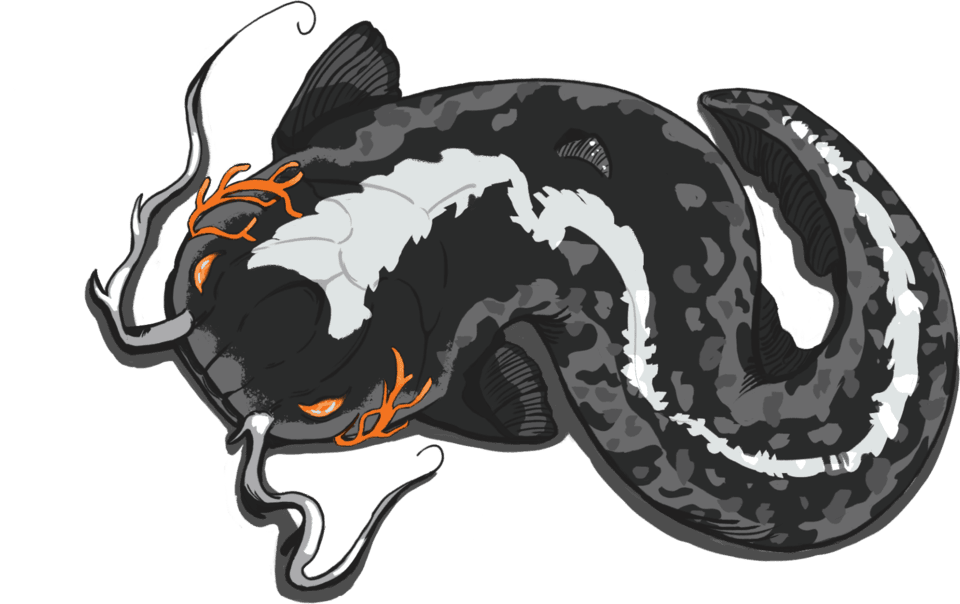
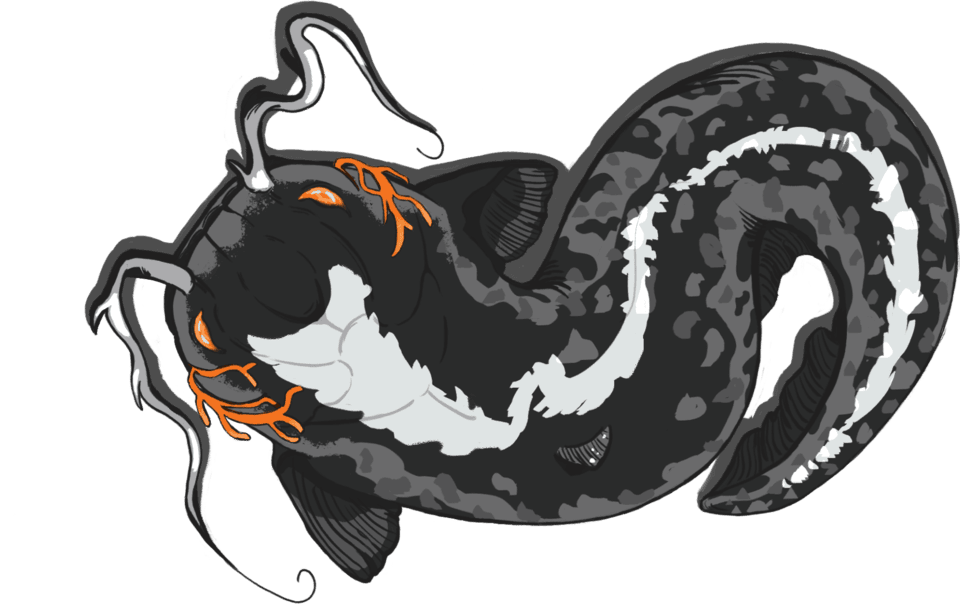
changed vektors for fish2

diff --git a/src/scenes/shop.js b/src/scenes/shop.js
@@ -637,8 +637,8 @@ export default class Shop extends Phaser.Scene {
 
     // BOX 2: gebogener Fisch
     if (this.currentBoxId === "box2") {
-      const startX = bounds.left + bounds.width * 0.17;
-      const startY = bounds.top + bounds.height * 0.37;
+      const startX = bounds.left + bounds.width * 0.20;
+      const startY = bounds.top + bounds.height * 0.42;
 
       this.fishPath = new Phaser.Curves.Path(startX, startY);
       //Kontrollpunkte x,y
@@ -647,10 +647,9 @@ export default class Shop extends Phaser.Scene {
         new Phaser.Math.Vector2(bounds.left + bounds.width * 0.36, bounds.top + bounds.height * 0.60),
         new Phaser.Math.Vector2(bounds.left + bounds.width * 0.54, bounds.top + bounds.height * 0.56),
         new Phaser.Math.Vector2(bounds.left + bounds.width * 0.68, bounds.top + bounds.height * 0.24),
-        new Phaser.Math.Vector2(bounds.left + bounds.width * 0.89, bounds.top + bounds.height * 0.42)
+        new Phaser.Math.Vector2(bounds.left + bounds.width * 0.95, bounds.top + bounds.height * 0.42)
       ]);
     }
-
   }
 
   //line für developer, zeigt den Pfad des Fisches an, ist ingame aktuell nicht sichtbar

diff --git a/src/main.js b/src/main.js
@@ -23,7 +23,7 @@ Promise.all([
 const config = {
   type: Phaser.AUTO,
   parent: "app",
-  scene: [Menu, Intro,Tutorial, Shop,Ending],
+  scene: [Shop,Ending],
   scale: {
     mode: Phaser.Scale.FIT,
     autoCenter: Phaser.Scale.CENTER_BOTH,
